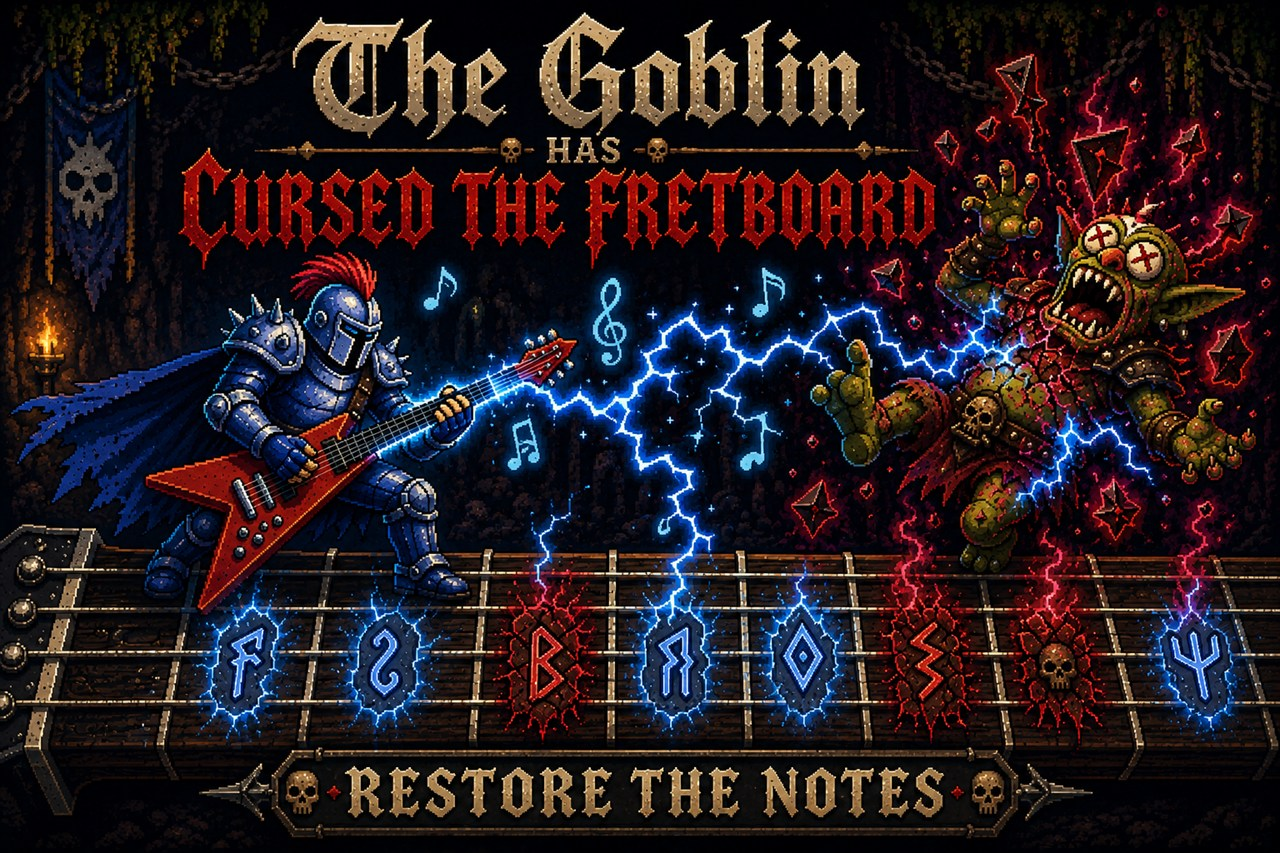
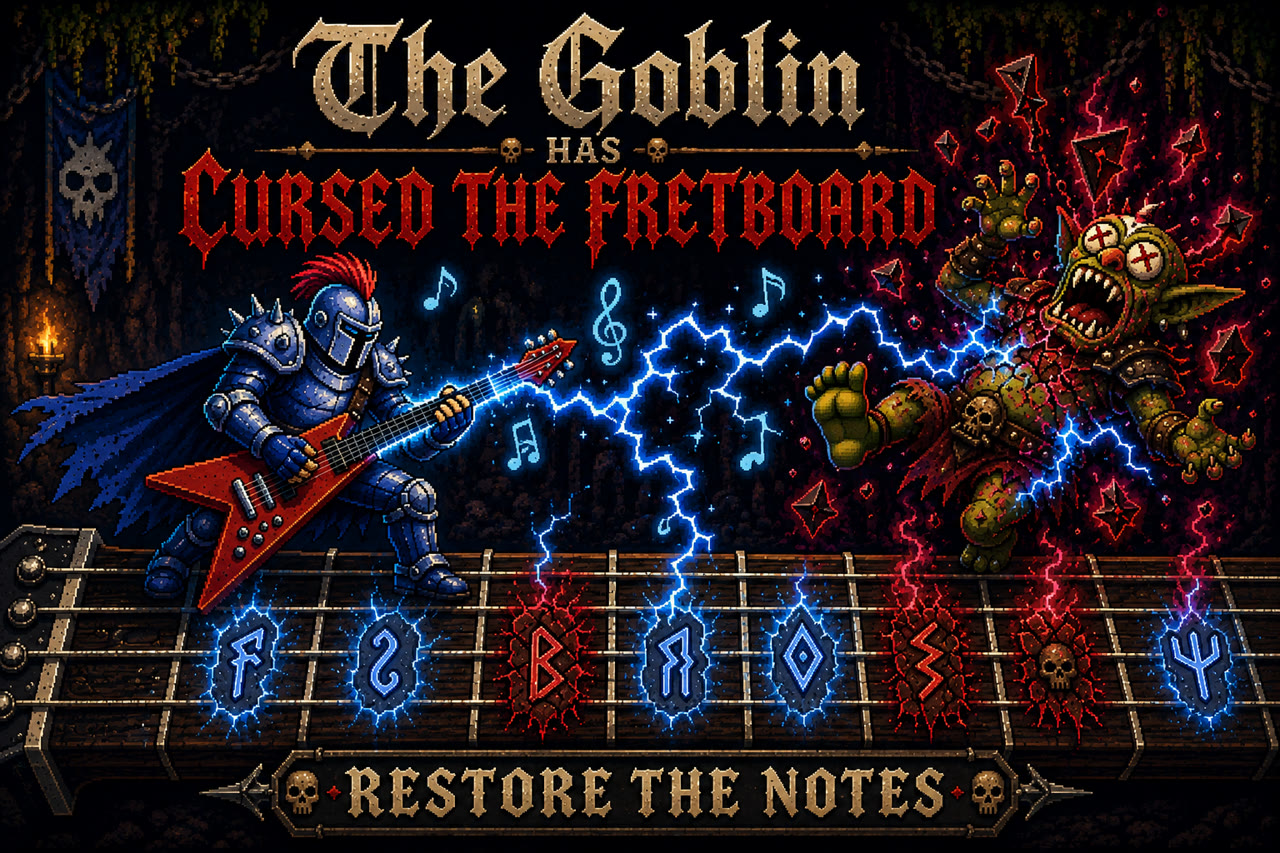
Update key art to the fixed-foot goblin render
Replace hero / social-preview / splash images with the new commissioned
art (goblin's malformed foot fixed), keeping the 'The Goblin Has Cursed
the Fretboard' / 'Restore the Notes' title. Regenerated from the 1536x1024
source: hero.jpg + splash.jpg at 1280x853, social-preview.jpg top-cropped
to 1280x640 so the title stays in frame. Splash alt text now includes
'Restore the Notes'.

diff --git a/index.html b/index.html
@@ -15,7 +15,7 @@
     <div class="grain" aria-hidden="true"></div>
 
     <div id="splash" role="dialog" aria-label="Loading">
-      <img src="/splash.jpg" alt="The Goblin Has Cursed the Fretboard" class="splash-art" />
+      <img src="/splash.jpg" alt="The Goblin Has Cursed the Fretboard — Restore the Notes" class="splash-art" />
       <p class="splash-msg">⚡ Summoning the riff…</p>
       <div class="splash-bar"><div class="splash-bar-fill"></div></div>
       <p class="splash-skip">click anywhere to skip</p>